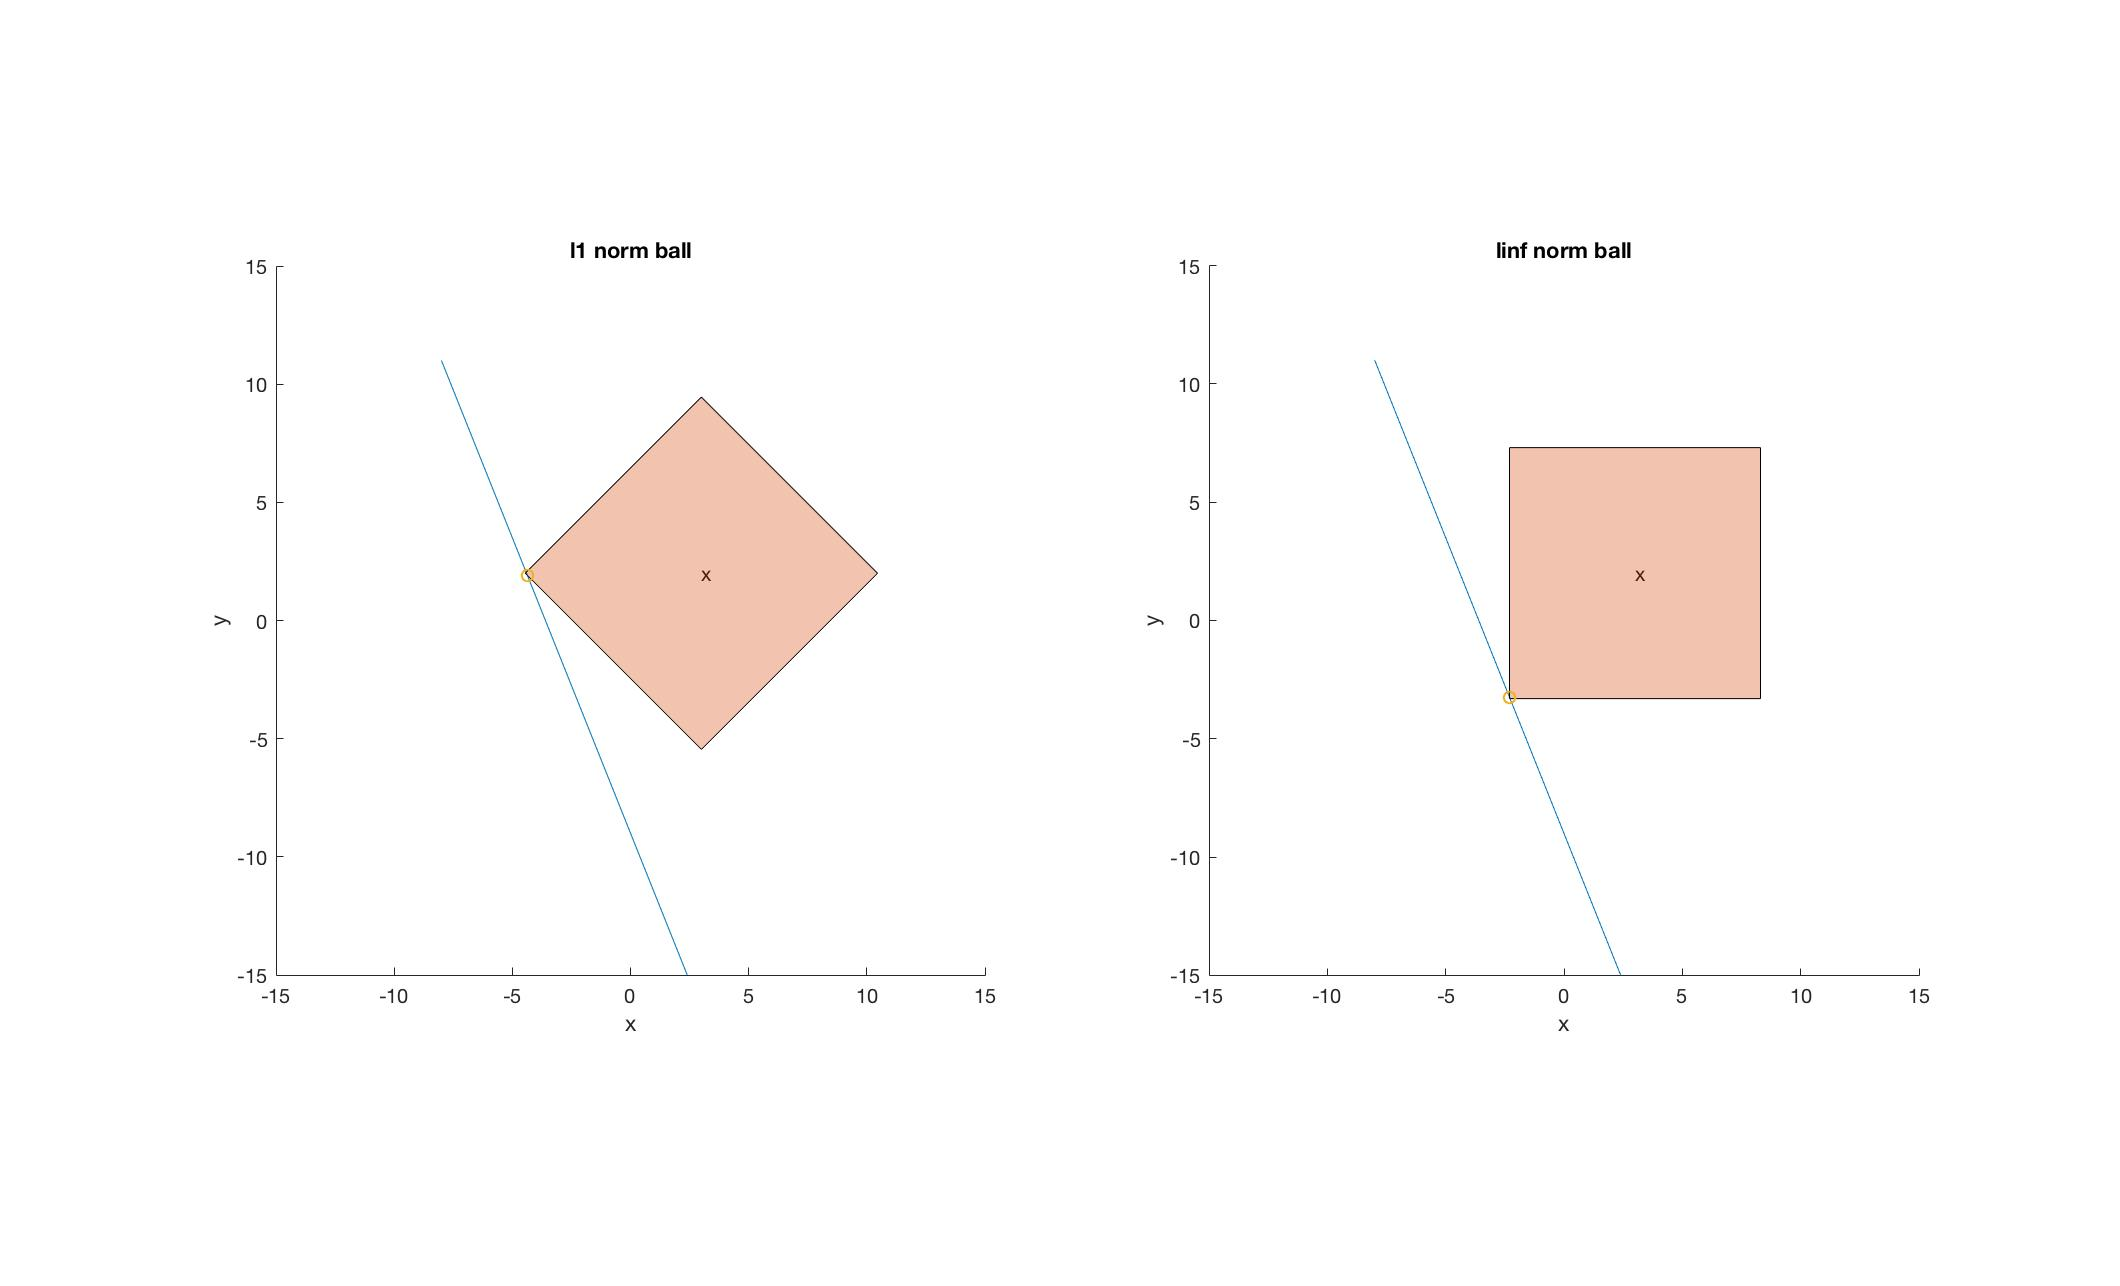
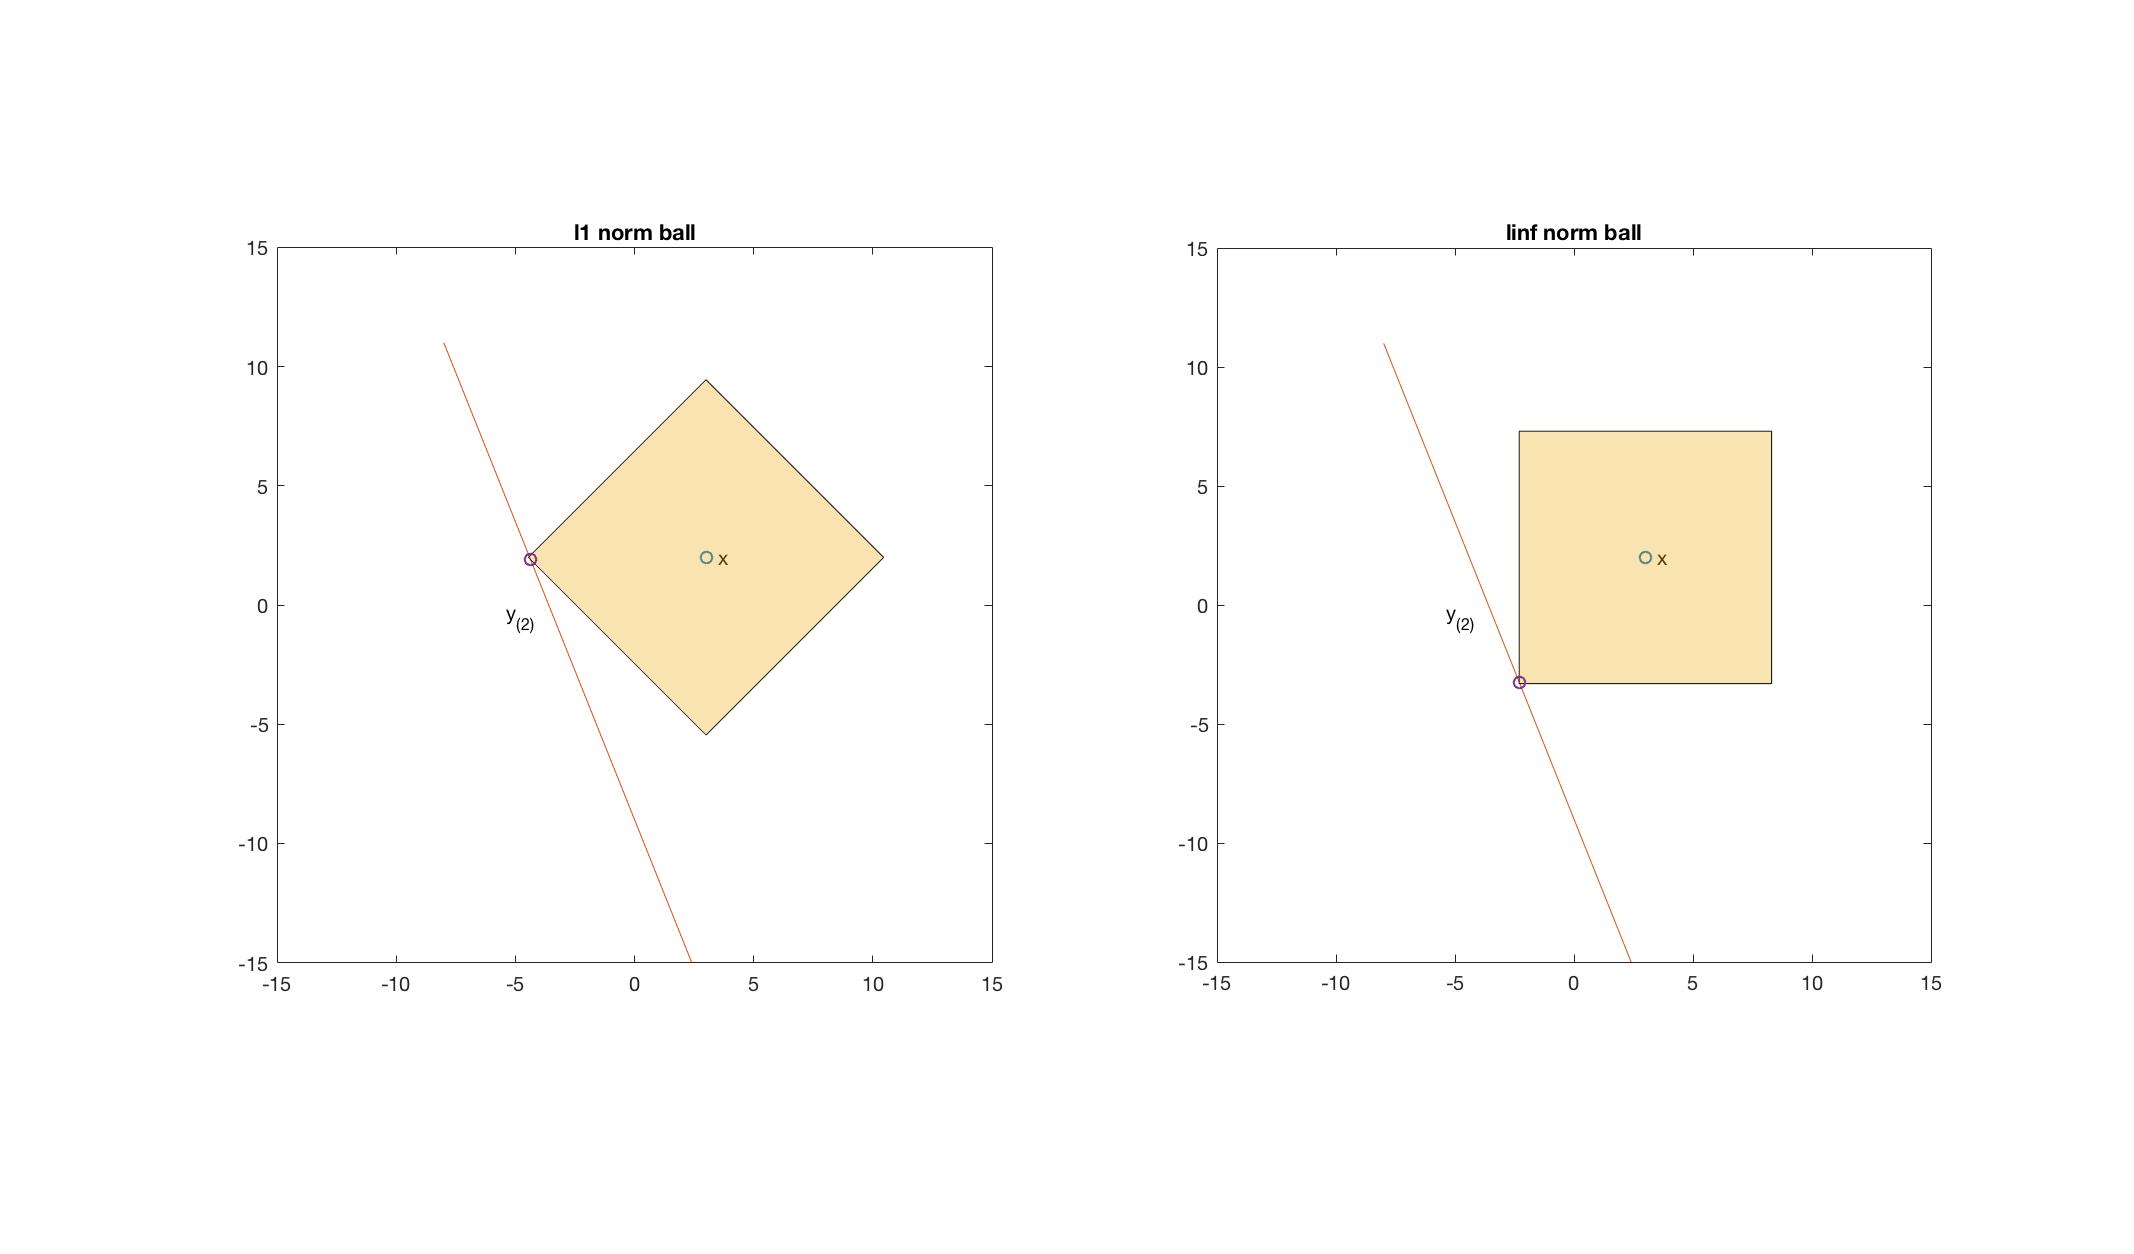
changed pic

diff --git a/PS1/p1_12.m b/PS1/p1_12.m
@@ -14,7 +14,8 @@ figure(1);
 %l2 norm
 xlabel('x');
 ylabel('y');
-text(3,2,'x');
+plot(3,2,'o');
+text(3.5,2,'x');
 hold on
 plot(A(1,:), A(2,:));
 axis equal;
@@ -22,6 +23,7 @@ l2_norm=sqrt(dot(A-x,A-x));
 [~,ind2]=min(l2_norm);
 drawcircle(x(1, :), x(2, :), l2_norm(ind2))
 plot(A(1,ind2),A(2,ind2),'o');
+text(A(1,ind2)-2,A(2,ind2),'y_(_2_)');
 axis equal;
 axis([-15 15 -15 15])
 title('l2 norm ball');
@@ -31,7 +33,8 @@ figure(2);
 subplot(1,2,1);
 xlabel('x');
 ylabel('y');
-text(3,2,'x');
+plot(3,2,'o');
+text(3.5,2,'x');
 hold on
 plot(A(1,:), A(2,:));
 axis equal;
@@ -39,6 +42,7 @@ l1_norm=sum(abs(A-x));
 [~,ind1]=min(l1_norm);
 drawdiamond(x(1, :), x(2, :), l1_norm(ind1))
 plot(A(1,ind1),A(2,ind1),'o');
+text(A(1,ind2)-2,A(2,ind2),'y_(_2_)');
 axis equal;
 axis([-15 15 -15 15])
 title('l1 norm ball');
@@ -47,7 +51,8 @@ title('l1 norm ball');
 subplot(1,2,2);
 xlabel('x');
 ylabel('y');
-text(3,2,'x');
+plot(3,2,'o');
+text(3.5,2,'x');
 hold on
 plot(A(1,:), A(2,:));
 axis equal;
@@ -55,6 +60,7 @@ linf_norm=max(abs(A-x));
 [~,ind_inf]=min(linf_norm);
 drawsquare(x(1, :), x(2, :), linf_norm(ind_inf))
 plot(A(1,ind_inf),A(2,ind_inf),'o');
+text(A(1,ind2)-2,A(2,ind2),'y_(_2_)');
 axis equal;
 axis([-15 15 -15 15])
 title('linf norm ball');
